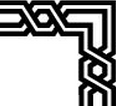
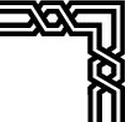
Поменял несколько рамок

diff --git a/HomeWork 4/DIV_FRAME.html b/HomeWork 4/DIV_FRAME.html
@@ -8,8 +8,8 @@
 </head>
 
 <body>
-    <div style="background: url('ramka2.png') repeat-x 0% 0% ">
-    <div style="background: url('ramka4.png') repeat-y 0% 0% ">
+    <div style="background: url('ramka02.png') repeat-x 0% 0% ">
+    <div style="background: url('ramka03.png') repeat-y 0% 0% ">
     <div style="background: url('ramka4.png') repeat-y 100% 0% ">
     <div style="background: url('ramka2.png') repeat-x 0% 100% ">
 
